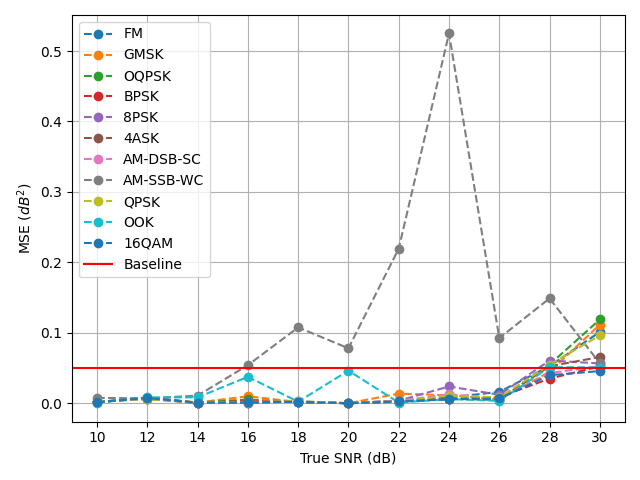
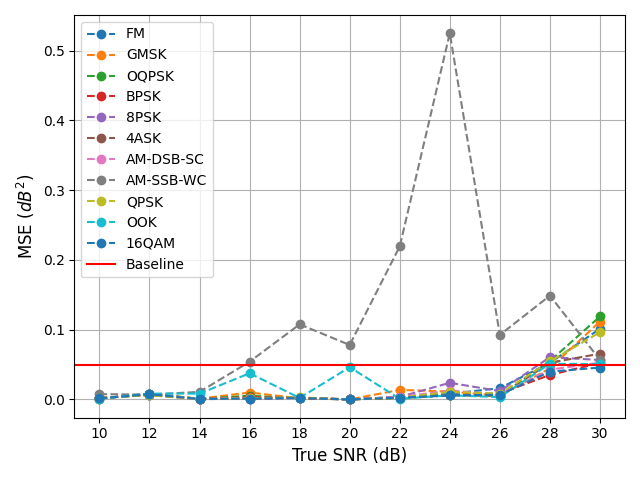
figures

diff --git a/src/eeng645_rudy_finalproject/run_me.py b/src/eeng645_rudy_finalproject/run_me.py
@@ -29,13 +29,13 @@ def main():
     GENERATE_DATASETS = False
     GEN_VAL_AND_TEST_SUBPLOTS = False
 
-    DO_PART1 = True
+    DO_PART1 = False
     TRAIN_MODULATION_CLASSIFIER = False
     TEST_MODULATION_CLASSIFIER = False
 
-    DO_PART2 = False
+    DO_PART2 = True
     TRAIN_SNR_ESTIMATOR = False
-    TEST_SNR_ESTIMATOR = True
+    TEST_SNR_ESTIMATOR = False
 
     ###########################
     ##### Sim. Parameters #####
@@ -322,8 +322,8 @@ def main():
             plt.grid(visible=True)
             plt.legend()
             plt.xticks(snr_values)
-            plt.xlabel("True SNR (dB)")
-            plt.ylabel("MSE ($dB^2$)")
+            plt.xlabel("True SNR (dB)", fontsize=12)
+            plt.ylabel("MSE ($dB^2$)", fontsize=12)
             plt.show()
             fig_mse_v_true_savepath = os.path.join(savedir, f"snr_mse_{test_val_str}.png")
             plt.tight_layout()
@@ -334,12 +334,14 @@ def main():
             plt.scatter(snr_true, snr_preds)
             plt.xticks(snr_values)
             plt.yticks(snr_values)
-            plt.xlabel("True SNR (dB)")
-            plt.ylabel("Predicted SNR (dB)")
+            plt.xlabel("True SNR (dB)", fontsize=12)
+            plt.ylabel("Predicted SNR (dB)", fontsize=12)
             plt.grid(visible=True)
             plt.show()
             fig_pred_v_true_savepath = os.path.join(savedir,f"snr_pred_{test_val_str}.png")
-            plt.tight_layout()
+            ax = plt.gca()
+            ax.set_aspect('equal', adjustable='box')
+            # plt.tight_layout()
             plt.savefig(fig_pred_v_true_savepath, pad_inches=6)
 
 
